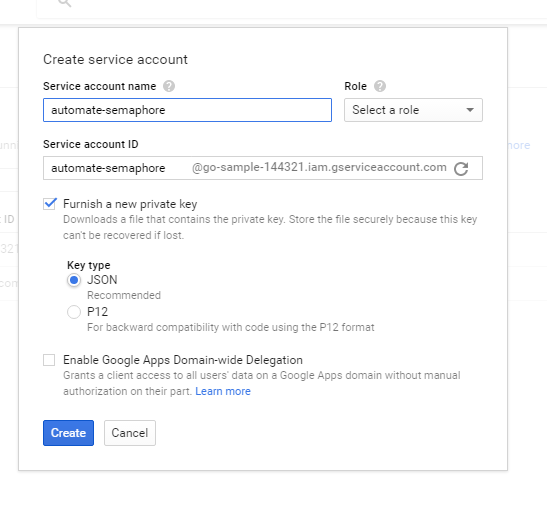
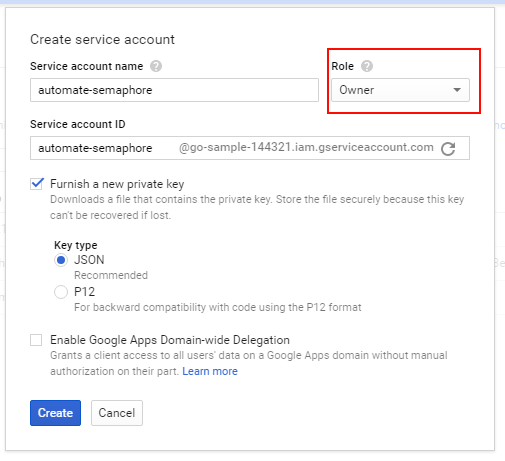
Finished section about uploading Docker image to GCR

diff --git a/_posts/2016-09-20-go-docker-semaphoreci-gloud-tutorial.md b/_posts/2016-09-20-go-docker-semaphoreci-gloud-tutorial.md
@@ -32,7 +32,7 @@ You might see some slightly different screenshots on your system if you use Linu
 #### Source code for this article
 
 You can find the source code mentioned in this article on [Github](https://github.com/kkapelon/go-docker-semaphore-gcloud). You can follow
-along either by creating a repository on your own and typing the source files yourself, or by simple cloning this repository to have
+along either by creating a repository on your own and typing the source files yourself, or by simply cloning this repository to have
 everything ready.
 
 
@@ -72,7 +72,7 @@ We also create the folder `[WORKDIR]/bin` that will hold the compiled binary.
 
 We need to run our GO application at least once to verify that it is working correctly. Of course we could install
 the GO development tools locally and run the application directly on our workstation. But this would beat one of
-the main objectives of Docker - having the same environment during development and during deployment.
+the main objectives of Docker - having the same environment during development and during production deployment.
 
 Therefore we will instead run our application in a Docker container that will have the GO runtime installed.
 At the time of writing the current official Docker image for GO is [golang:1.7.1](https://hub.docker.com/_/golang/).
@@ -170,7 +170,7 @@ results in an automatic rebuild of the Docker image.
 
 ### Step 3 - Using Semaphore CI to automate the build process
 
-[Semaphore CI](https://semaphoreci.com/) is a cloud CI service that can not only automate our build and also comes with [Docker support](https://semaphoreci.com/product/docker) built-in.
+[Semaphore CI](https://semaphoreci.com/) is a cloud CI service that can not only automate our build but also comes with [Docker support](https://semaphoreci.com/product/docker) built-in.
 
 For public repositories it is completely free, so if we commit our code on a public Gihub (or Bitbucket) repository, we can easily setup
 a build process with only a free registration.
@@ -207,7 +207,7 @@ Once the configuration is saved you can run your first successful build!
 
 If you run the build more times you will notice that the golang image is downloaded again and again.
 Semaphore offers a [cache mechanism for Docker images](https://semaphoreci.com/docs/docker.html) so that each build can skip the download step and find the cache right away.
-To enabled the cache we add the special SemaphoreCI command `docker-cache restore` before our build and the `docker-cache snapshot` command after our build.
+To enable the cache we add the special SemaphoreCI command `docker-cache restore` before our build and the `docker-cache snapshot` command after our build.
 
 ![Semaphore Docker cache](../../assets/go-docker-gcloud/docker-image-cache.png)
 
@@ -228,11 +228,11 @@ as a verification method and is not charged during or after the trial finishes.
 
 If you don't enter a credit card most of the functionalities decribed in the following sections are disabled.
 
-Once you have billing enabled locate the credentials section in the Google Console.
+Once you have billing enabled, locate the credentials section in the Google Console.
 
 ![Google cloud security](../../assets/go-docker-gcloud/gcloud-create-account.png)
 
-Select the "Create Service Account" button and fill-in the details.
+Select the "Create Service Account" button and fill-in the details. Make sure that you select the "Owner" role so that the service account has read/write access (which translates to pull/push for a Docker repository).
 
 ![Google cloud create service account](../../assets/go-docker-gcloud/gcloud-create-service-account.png)
 
@@ -242,6 +242,17 @@ The go the SemaphoreCI UI and select "add-ons" from the top right corner.
 ![Semaphore add-ons](../../assets/go-docker-gcloud/semaphore-addons.png)
 
 Select the docker registry option. Finally select the GCR entry and paste the contents of your JSON.
-Make sure that you also enter you Google account email.
+Make sure that you also enter your Google account email.
 
 Now you are ready to modify the build commands to send the final Docker image to the GCR registry.
+
+![Docker push commands](../../assets/go-docker-gcloud/docker-push-command.png)
+
+Run the Semaphore build again and if everything goes well you should see the image pushed into the GRC repository.
+
+![GCR docker image](../../assets/go-docker-gcloud/gcr-image.png)
+
+
+### Step 5 - Deploying the Docker image to Google Cloud
+
+We now reach the final step. We have compiled our GO application, created a Docker image and uploaded it to the Docker Registry. We need to deploy it to Google cloud to actually use the application.
